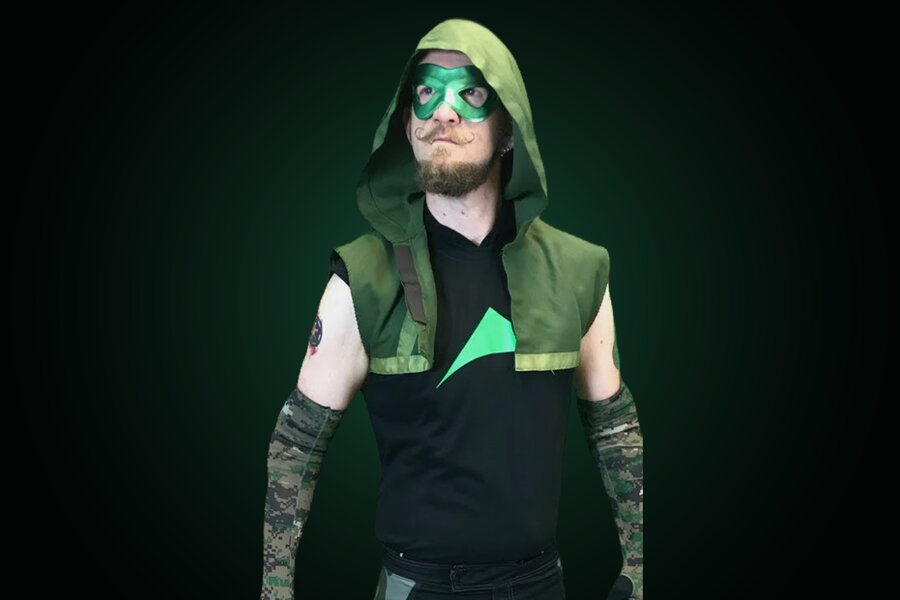
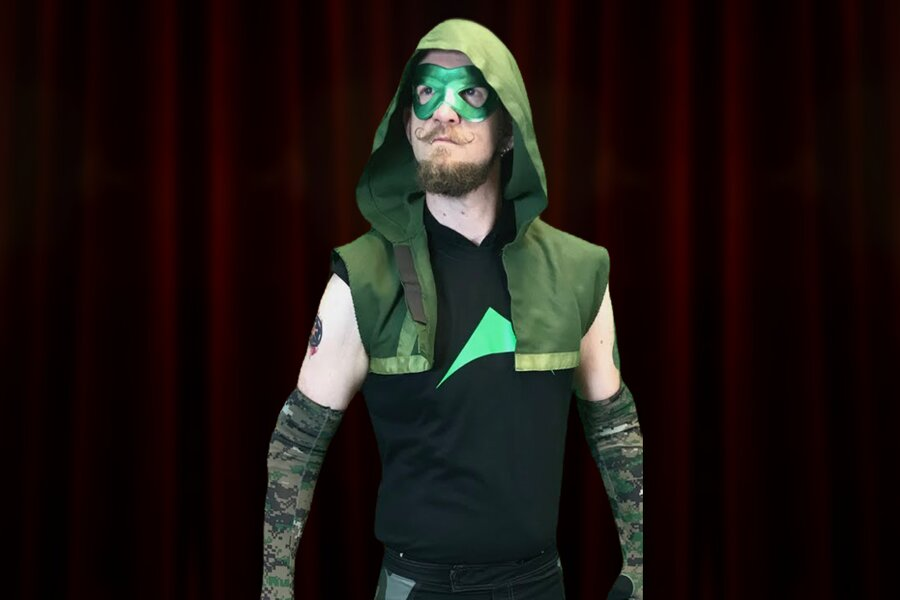
Put The Vigilante in front of the Opera House curtain
Backdrop cut from the deep red stage curtain in a CMRice Vendetta photo, mirrored
and softened into a plate so it reads as a backdrop rather than a specific frame.

Because the backdrop is CMRice work, the credit exception is removed and the
blanket CMRice credit applies again. He stays out of the print pack.

diff --git a/index.html b/index.html
@@ -158,8 +158,7 @@
       <h2>Roster highlights</h2>
       <p class="section-note">
         The full active roster. Match history is available on request. Every photo below
-        except The Vigilante is print resolution when clicked, and all of those require
-        the CMRice Photography credit.
+        except The Vigilante is print resolution when clicked.
       </p>
       <div class="roster">
         <article>
@@ -253,7 +252,7 @@
           <p>A masked figure from the promotion's 2017 season whose influence is still felt today. His stated goal was to bring down The Pillars. Somebody else got there first.</p>
         </article>
       </div>
-      <p class="section-note credit-note">All roster photography by <a href="https://www.instagram.com/cmricephoto/">CMRice Photography</a> with the exception of The Vigilante. Credit required.</p>
+      <p class="section-note credit-note">All roster photography by <a href="https://www.instagram.com/cmricephoto/">CMRice Photography</a>. Credit required.</p>
     </section>
 
     <section class="section" id="video">
@@ -300,7 +299,7 @@
     <section class="section" id="usage">
       <h2>Usage</h2>
       <ul class="usage">
-        <li><strong>Photos</strong> require the credit <em>Photo by CMRice Photography</em>, with the exception of The Vigilante. Link to <a href="https://www.instagram.com/cmricephoto/">instagram.com/cmricephoto</a> where a link is possible.</li>
+        <li><strong>Photos</strong> require the credit <em>Photo by CMRice Photography</em>. Link to <a href="https://www.instagram.com/cmricephoto/">instagram.com/cmricephoto</a> where a link is possible.</li>
         <li><strong>The name</strong> is written LoCo Pro Wrestling, with a capital L and a capital C.</li>
         <li><strong>Illustrations</strong> of the roster exist, are not photographs, and are not included here.</li>
         <li><strong>Interviews and additional photos</strong> are available. Email or call.</li>
